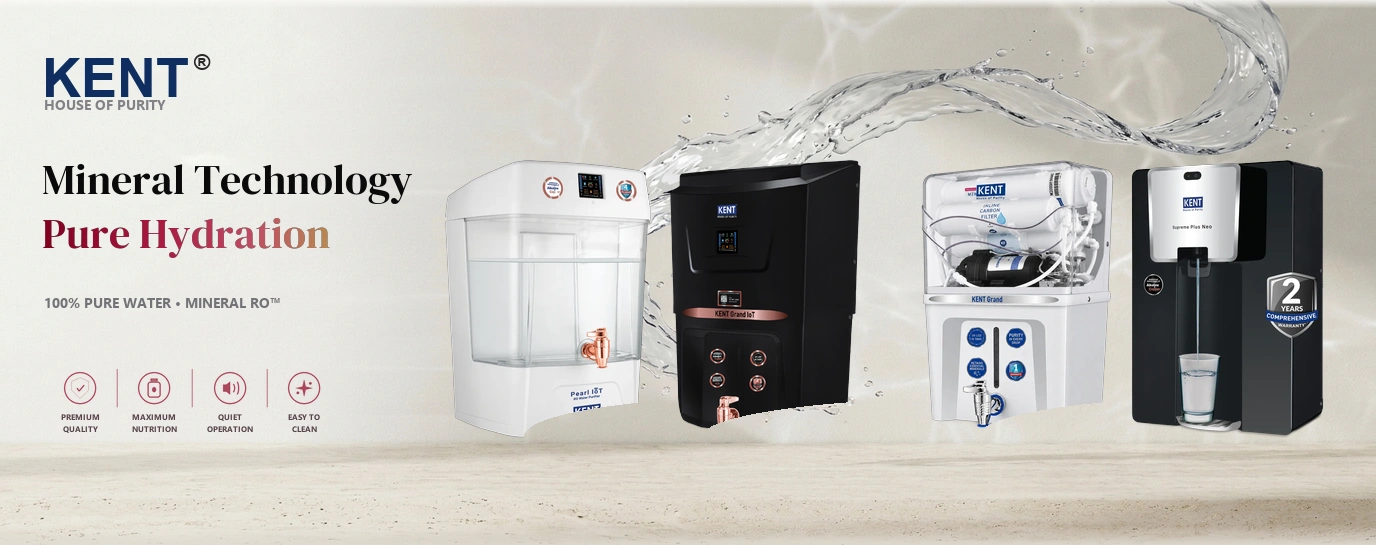
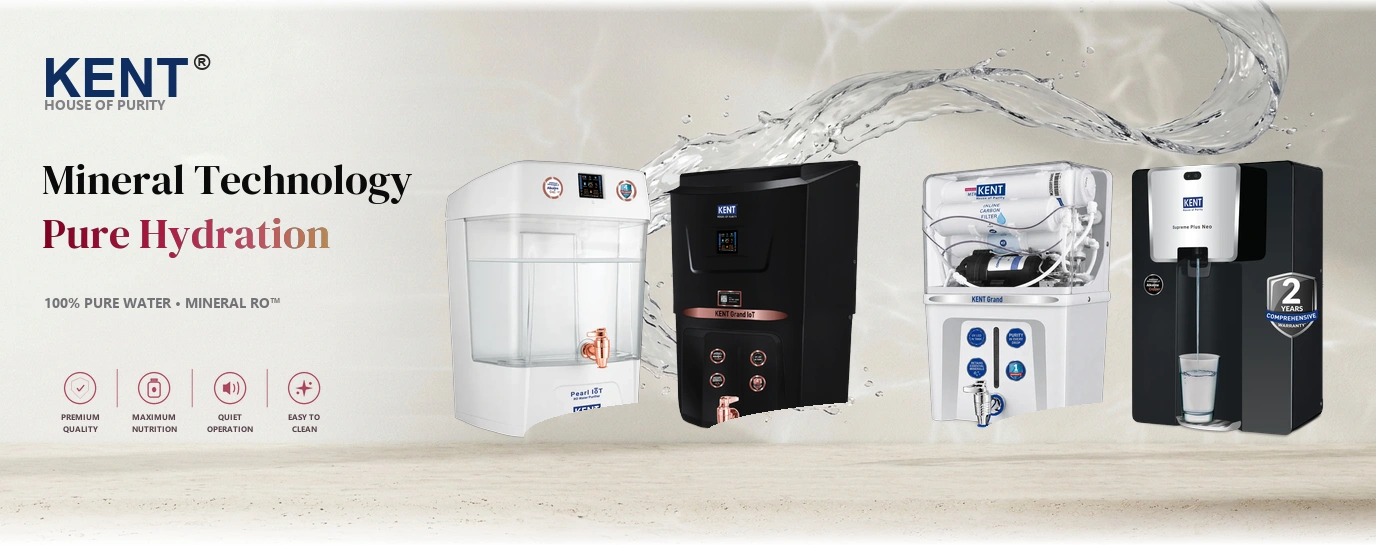
feat(hero): set background to pure white across hero section and elements

Changed region(s): [[0.0, 0.9358, 1.0, 1.0], [0.9062, 0.0, 0.9375, 0.0312]]

diff --git a/index.html b/index.html
@@ -19,7 +19,7 @@
         href="https://fonts.googleapis.com/css2?family=DM+Serif+Display:ital@0;1&family=Plus+Jakarta+Sans:ital,wght@0,300;0,400;0,500;0,600;0,700;0,800;1,400;1,600&display=swap"
         rel="stylesheet">
 
-    <link rel="stylesheet" href="styles.css?v=17.0">
+    <link rel="stylesheet" href="styles.css?v=18.0">
 </head>
 
 <body class="detail-page">
@@ -114,12 +114,33 @@
                     <div class="detail-stage">
                         <div class="detail-stage-frame detail-stage-frame--poster">
                             <img class="detail-stage-poster" id="heroStagePoster"
-                                src="images/kent-purifiers-banner.webp?v=17.0" alt="KENT Water Purifiers lineup"
+                                src="images/kent-purifiers-banner.webp?v=18.0" alt="KENT Water Purifiers lineup"
                                 fetchpriority="high">
                         </div>
                     </div>
 
                     <div class="detail-hero-copy">
+                        <div class="hero-eyebrow-pill">
+                            <span class="hero-eyebrow-dot"></span>
+                            <span>Complimentary Doorstep Demonstration • 100% Free TDS Water Test</span>
+                        </div>
+
+                        <div class="detail-hero-brand-lockup"
+                            style="display: flex; flex-direction: column; align-items: center; justify-content: center; gap: 0.2cm; margin-top: 0.35rem; margin-bottom: 0.35rem;">
+                            <div style="display: inline-flex; align-items: flex-start; line-height: 1;">
+                                <h1 id="heroTitle" style="margin: 0; line-height: 1;">KENT</h1>
+                                <span
+                                    style="font-size: clamp(0.9rem, 1.4vw, 1.3rem); font-weight: 700; color: #0A0A0A; margin-left: 3px; margin-top: 2px;">®</span>
+                            </div>
+                            <span class="hero-tagline"
+                                style="font-family:'Plus Jakarta Sans',sans-serif; font-size: clamp(0.72rem, 1vw, 0.85rem); font-weight: 700; letter-spacing: 0.22em; text-transform: uppercase; color: #777777; line-height: 1;">HOUSE
+                                OF PURITY</span>
+                        </div>
+                        <p class="detail-short-copy" id="heroSummary">Premium water purification systems crafted to
+                            bring 100% pure, mineral-rich drinking water, superior multi-stage extraction, and
+                            effortless wellness into everyday life. KENT combines thoughtful technology, powerful
+                            performance, and refined design to create a more enjoyable pure-water experience.</p>
+
                         <div class="detail-hero-actions" id="heroActions">
                             <a href="#product-browser" class="hero-cta hero-cta--primary"
                                 id="heroExploreProductsButton">

diff --git a/styles.css b/styles.css
@@ -1912,7 +1912,7 @@ body.nav-menu-open {
   padding-bottom: 2.5rem;
   padding-left: 0;
   padding-right: 0;
-  background: #DFDAD0 linear-gradient(180deg, #FAF9F6 0%, #F4F1E9 30%, #E8E3D8 70%, #DFDAD0 100%) !important;
+  background: #FFFFFF !important;
   position: relative;
   box-sizing: border-box;
   overflow: hidden;
@@ -1958,15 +1958,13 @@ body.nav-menu-open {
   align-items: center;
   justify-content: center;
   gap: 1.5rem;
-  margin-top: 2rem;
+  margin-top: 1.75rem;
   padding: 0.9rem 1.6rem;
-  background: rgba(255, 255, 255, 0.78);
-  backdrop-filter: blur(12px);
-  -webkit-backdrop-filter: blur(12px);
-  border: 1px solid rgba(220, 215, 205, 0.7);
+  background: #FFFFFF;
+  border: 1px solid rgba(0, 0, 0, 0.08);
   border-radius: 16px;
-  box-shadow: 0 4px 20px rgba(160, 150, 135, 0.08);
-  max-width: 720px;
+  box-shadow: 0 4px 20px rgba(0, 0, 0, 0.04);
+  max-width: 760px;
   margin-left: auto;
   margin-right: auto;
 }
@@ -2099,13 +2097,14 @@ body.nav-menu-open {
 .detail-hero-copy {
   width: min(100%, 1440px);
   margin: 0 auto;
-  padding: 0.75rem var(--content-padding, 1.5rem) 1.5rem;
+  padding: 0.5rem var(--content-padding, 1.5rem) 1.5rem;
   box-sizing: border-box;
   text-align: center;
   display: flex;
   flex-direction: column;
   align-items: center;
-  gap: 1.5rem;
+  gap: 0.85rem;
+  background: #FFFFFF;
   position: relative;
   z-index: 2;
 }

diff --git a/update_banner_tagline.py b/update_banner_tagline.py
@@ -9,11 +9,6 @@ plate_path = r'C:\Users\ADMIN\.gemini\antigravity\brain\c228a748-d79c-4230-b18c-
 bg_raw = Image.open(plate_path).convert('RGB')
 bg = bg_raw.resize((WIDTH, HEIGHT), Image.Resampling.LANCZOS).convert('RGBA')
 
-# NOTE: The water arc flows naturally in the background across the scene.
-# We DO NOT paste a flat stretched floor rectangle across the full width,
-# which previously cut off the water splash and created a visible horizontal seam.
-# The water effect continues uninterrupted and flows smoothly!
-
 # 2. Extract 4 100% WHOLESOME, UNTRUNCATED PURIFIER MACHINES
 # Model 1: Pearl IoT (complete white rounded base down to y=936)
 p1 = Image.open('images/purifier-pearl-wholesome.png').convert('RGBA')
@@ -52,7 +47,7 @@ gap = remaining_gap_total // 3
 base_y = 440
 py = base_y - TARGET_H  # 160px headroom above machines
 
-# 3. Soft Realistic Contact Shadow Layer on Travertine Floor
+# 3. Soft Realistic Contact Shadow Layer on Floor
 shadow_layer = Image.new('RGBA', (WIDTH, HEIGHT), (0, 0, 0, 0))
 shadow_draw = ImageDraw.Draw(shadow_layer)
 
@@ -156,30 +151,29 @@ if os.path.exists(badges_file):
     b_img = Image.open(badges_file)
     banner.paste(b_img, (LEFT_X, 366), b_img)
 
-# 6. Smooth feathering at the top (to seamlessly meet navbar #FAF9F6) and bottom (to meet travertine section floor #DFDAD0)
-# Top 10px soft blend:
-top_blend_target = (250, 249, 246)  # #FAF9F6
-for y in range(8):
-    alpha = (8 - y) / 10.0
+# 6. Smooth feathering into pure white #FFFFFF at top and bottom
+# Top 12px soft blend to pure white (255, 255, 255):
+white_target = (255, 255, 255)
+for y in range(12):
+    alpha = (12 - y) / 14.0
     for x in range(WIDTH):
         cur = banner.getpixel((x, y))
         blended = (
-            int(cur[0] * (1 - alpha) + top_blend_target[0] * alpha),
-            int(cur[1] * (1 - alpha) + top_blend_target[1] * alpha),
-            int(cur[2] * (1 - alpha) + top_blend_target[2] * alpha)
+            int(cur[0] * (1 - alpha) + white_target[0] * alpha),
+            int(cur[1] * (1 - alpha) + white_target[1] * alpha),
+            int(cur[2] * (1 - alpha) + white_target[2] * alpha)
         )
         banner.putpixel((x, y), blended)
 
-# Bottom 20px soft blend into the travertine section floor:
-floor_target = (223, 218, 208)  # #DFDAD0
-for y in range(HEIGHT - 20, HEIGHT):
-    alpha = (y - (HEIGHT - 20)) / 22.0
+# Bottom 40px soft blend into pure white (255, 255, 255):
+for y in range(HEIGHT - 40, HEIGHT):
+    alpha = (y - (HEIGHT - 40)) / 40.0
     for x in range(WIDTH):
         cur = banner.getpixel((x, y))
         blended = (
-            int(cur[0] * (1 - alpha) + floor_target[0] * alpha),
-            int(cur[1] * (1 - alpha) + floor_target[1] * alpha),
-            int(cur[2] * (1 - alpha) + floor_target[2] * alpha)
+            int(cur[0] * (1 - alpha) + white_target[0] * alpha),
+            int(cur[1] * (1 - alpha) + white_target[1] * alpha),
+            int(cur[2] * (1 - alpha) + white_target[2] * alpha)
         )
         banner.putpixel((x, y), blended)
 
